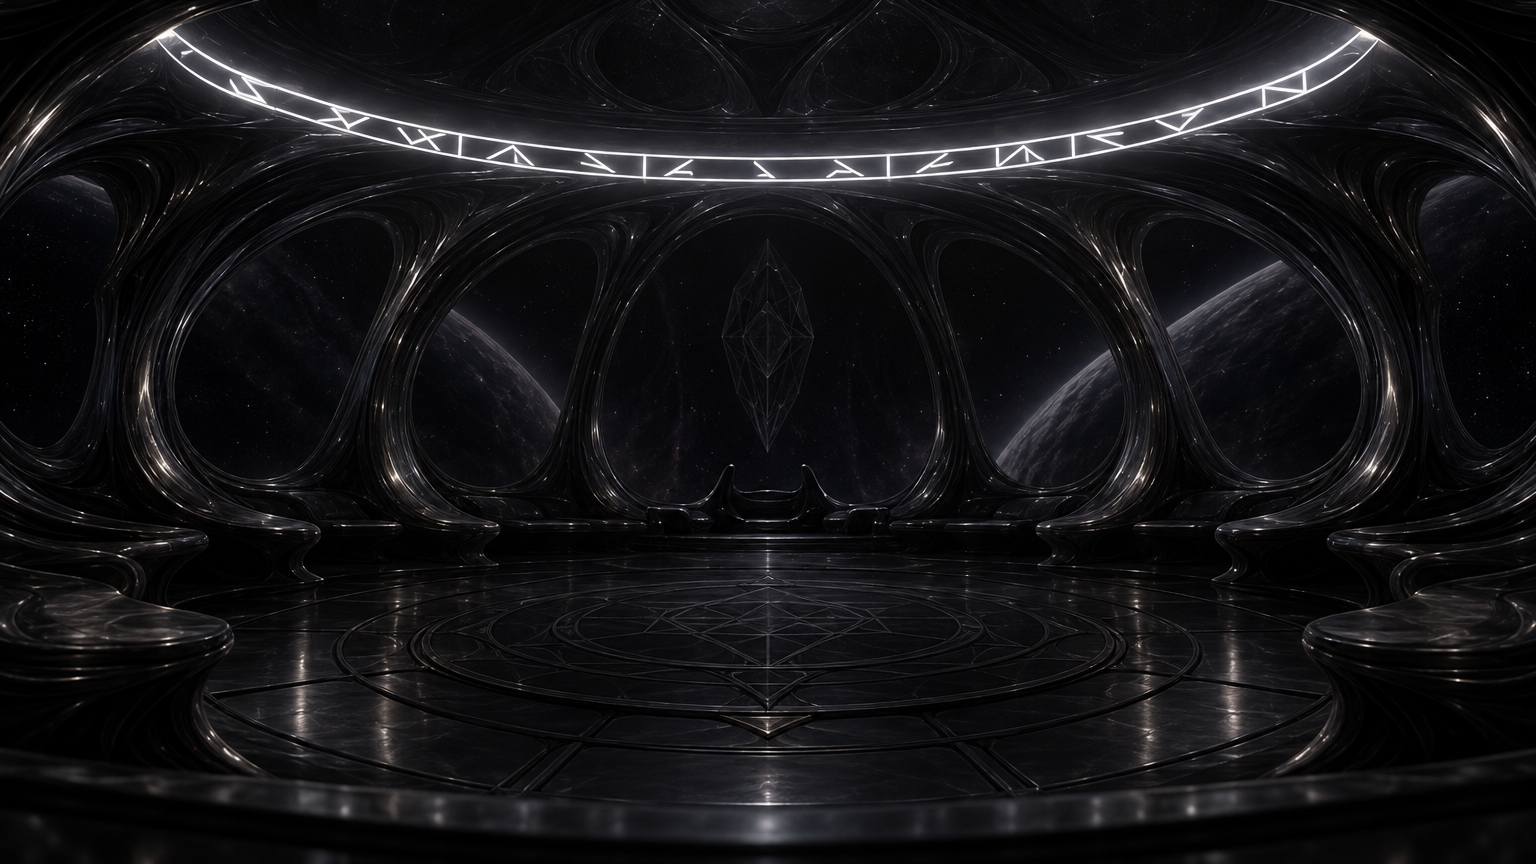
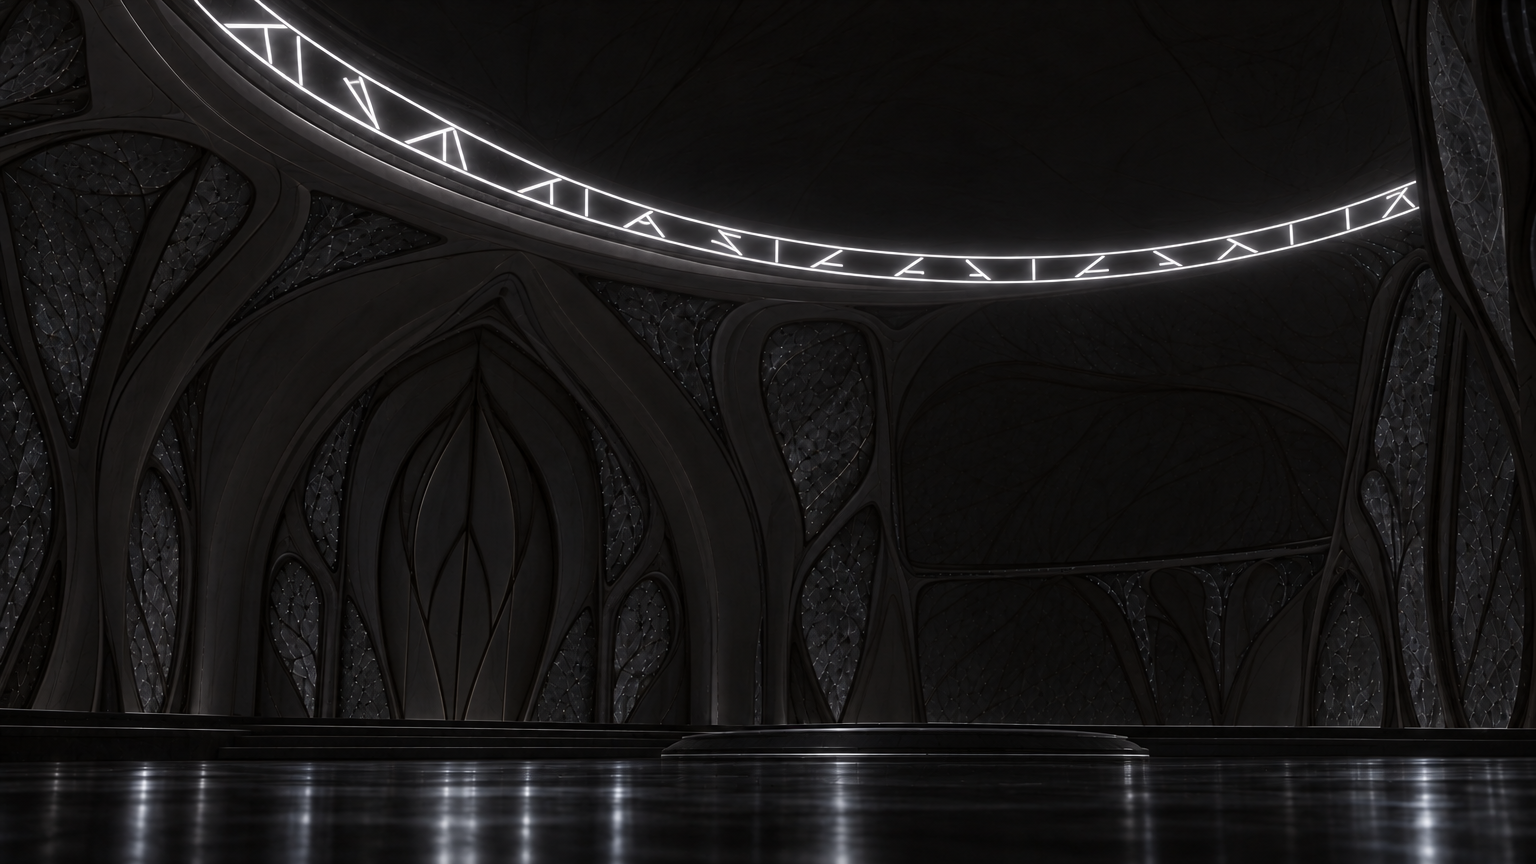
Visuals: SOVRIN re-rendered in the approved Command Dome

diff --git a/docs/celestial/visual-canon/README.md b/docs/celestial/visual-canon/README.md
@@ -21,7 +21,7 @@ This folder is the reference for anything we render: character portraits, ship s
 - `rhea-solari-portrait.png`: Rhea's approved identity portrait.
 - `amar-cael-portrait.png`: Amar's approved identity portrait.
 - `elira-voss-portrait.png`: Elira's approved identity portrait (2026-11-17).
-- `sovrin-command-dome.png`: SOVRIN's approved manifestation (2026-11-17, CH12). The Command Dome with its own lights out; one narrow band of cold white light with straight-stroke angular symbols across the upper arc. Attached to `sovrin`.
+- `sovrin-command-dome.png`: SOVRIN's approved manifestation (2026-11-17, CH12). The approved Command Dome interior (third render, replacing the earlier one in the old windowed dome) with its own lights out; one narrow band of cold white light with straight-stroke angular symbols across the upper arc. Attached to `sovrin`.
 - `caeden-relay-cluster.png`: CAEDEN's approved look (2026-11-17). Earth-built relay modules bolted into a hollow under a peeled-up section of the ship's shell, with a faint cold blue-white glow inside them. No screens or words. Attached to `caeden`.
 - `resonant-core.png`: the approved Resonant Core (2026-11-17). A windowless hollow in the same architecture as the Command Dome and Observation Deck; the ship's violet veins gather into a woven knot of gold nodes with nothing at the center. Attached to `resonant-core`. The book never shows it as hardware, so the form is proposed.
 - `harmonic-drive.png`: the approved Harmonic Drive (2026-11-17). Nested rings receding down a tapering chamber in a slow spiral, violet near and gold at the far end, no engine. Attached to `harmonic-drive`. Form proposed, as above.
